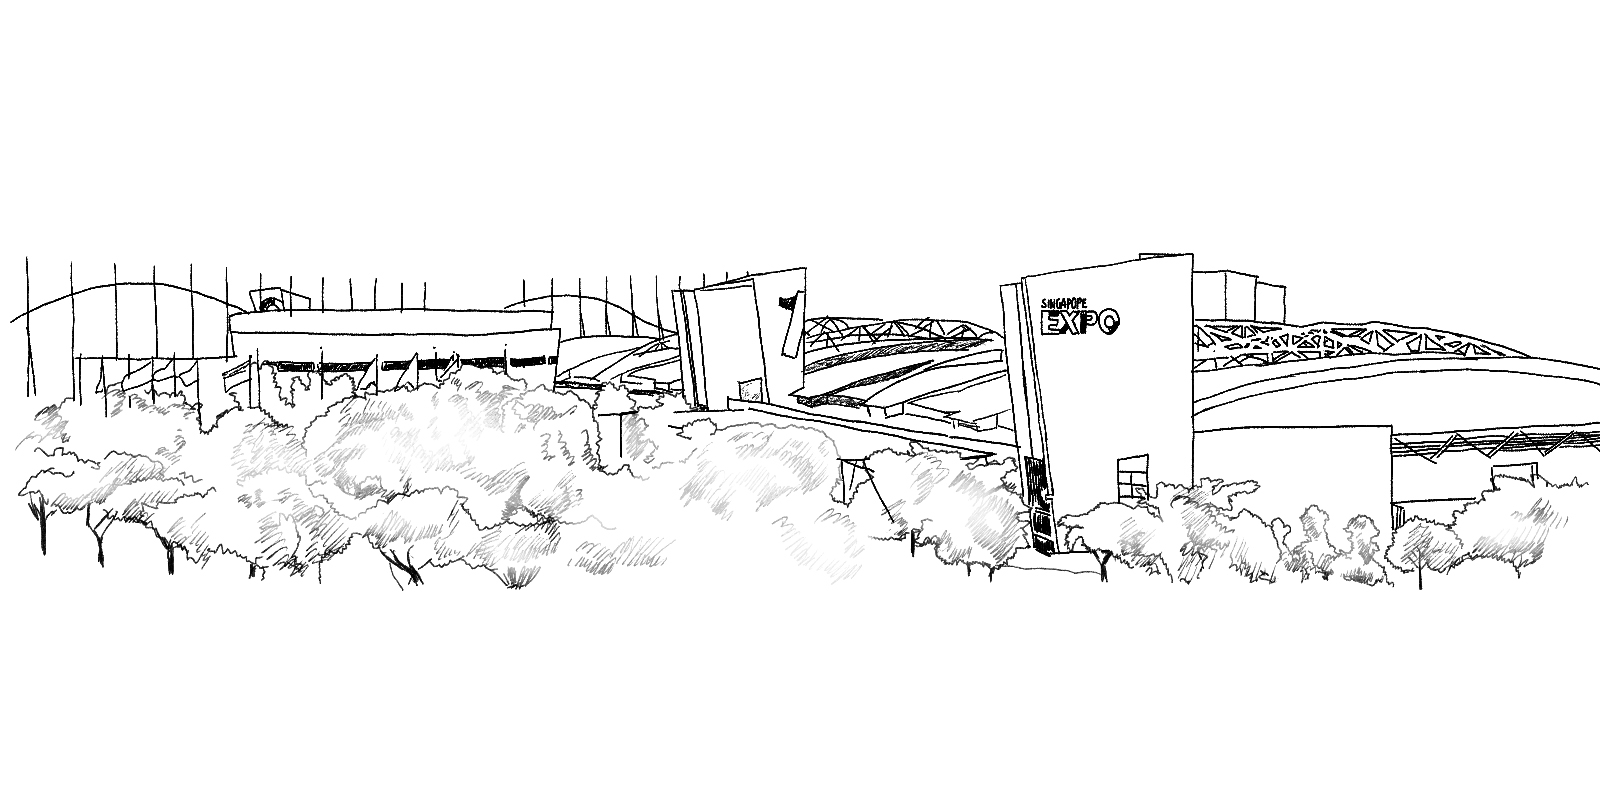
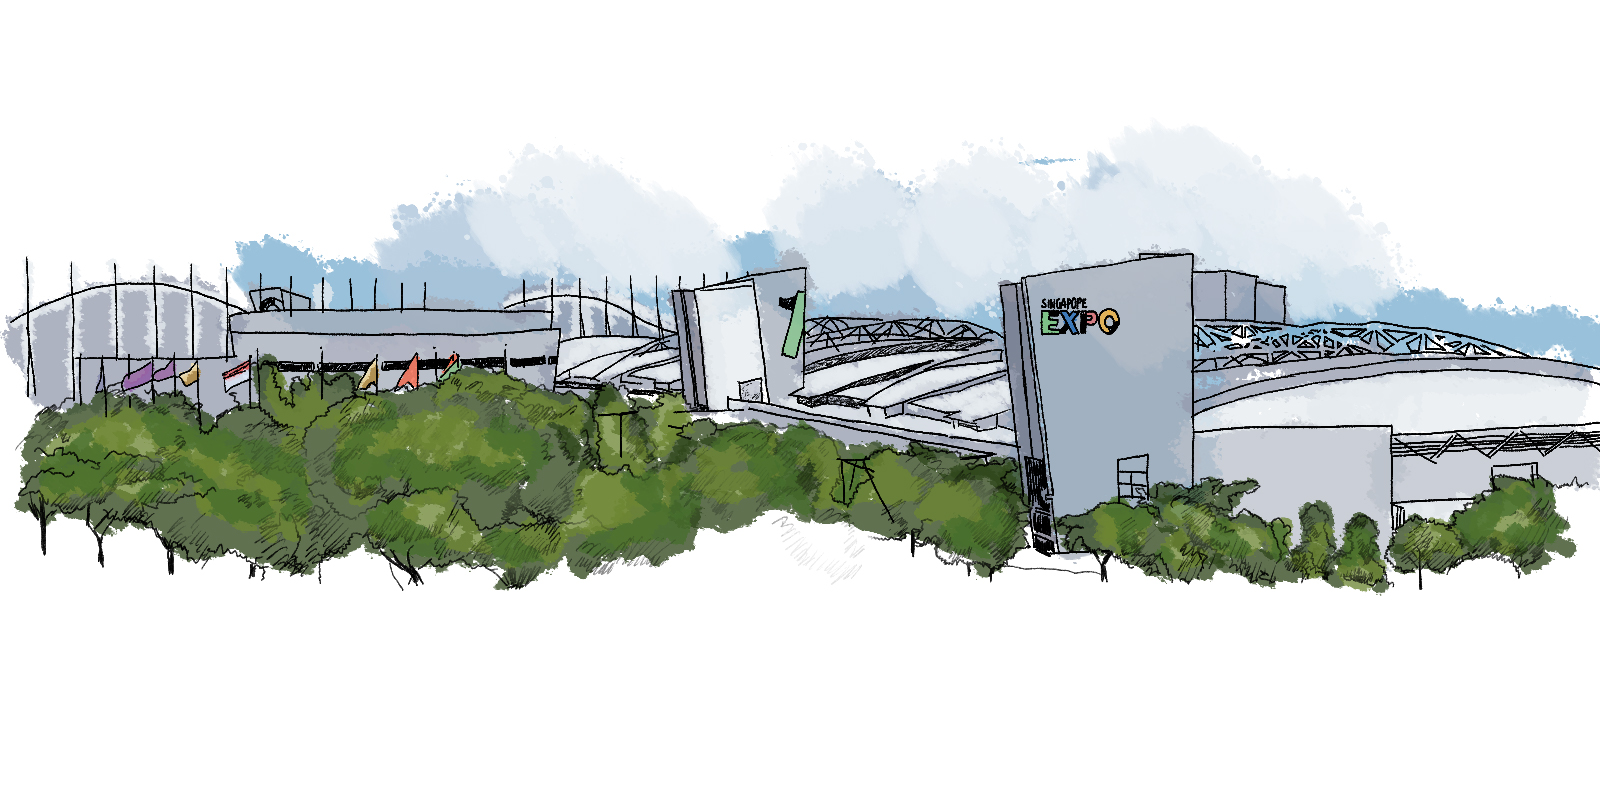
替换上色图

diff --git a/src/views/home/Home.vue b/src/views/home/Home.vue
@@ -1417,9 +1417,9 @@ export default {
         background-color: white;
         //filter: blur(12px);
 
-        background-position: center;
+        background-position: bottom;
         background-repeat: no-repeat;
-        background-size: 100% 100%;
+        background-size: 100% auto;
       }
       .image-2-blur {
         position: relative;
@@ -1433,9 +1433,9 @@ export default {
         background-color: white;
         //filter: blur(12px);
 
-        background-position: center;
+        background-position: bottom;
         background-repeat: no-repeat;
-        background-size: 100% 100%;
+        background-size: 100% auto;
       }
       .image-3-blur {
         position: relative;
@@ -1445,13 +1445,13 @@ export default {
         width: 100%;
 
         height: 65.7rem;
-        background-image: url("../../assets/imgs/home/blur-construction.png");
+        background-image: url("../../assets/imgs/home/blur-construction.jpg");
         background-color: white;
         //filter: blur(12px);
 
-        background-position: center;
+        background-position: bottom;
         background-repeat: no-repeat;
-        background-size: 100% 100%;
+        background-size: 100% auto;
       }
 
       .image-1 {
@@ -1461,9 +1461,9 @@ export default {
         background-image: url("../../assets/imgs/home/scott-graham-5fNmWej4tAA-unspl@2x.png");
         background-color: white;
 
-        background-position: center;
+        background-position: bottom;
         background-repeat: no-repeat;
-        background-size: 100% 100%;
+        background-size: 100% auto;
       }
 
       .image-2 {
@@ -1473,21 +1473,21 @@ export default {
         background-image: url("../../assets/imgs/home/realestate.png");
         background-color: white;
 
-        background-position: center;
+        background-position: bottom;
         background-repeat: no-repeat;
-        background-size: 100% 100%;
+        background-size: 100% auto;
       }
 
       .image-3 {
         width: 100%;
 
         height: 65.7rem;
-        background-image: url("../../assets/imgs/home/construction.png");
+        background-image: url("../../assets/imgs/home/construction.jpg");
         background-color: white;
 
-        background-position: center;
+        background-position: bottom;
         background-repeat: no-repeat;
-        background-size: 100% 100%;
+        background-size: 100% auto;
       }
 
       font-size: 2rem;
@@ -1604,13 +1604,13 @@ export default {
   }
 
   .background-3 {
-    padding: 20.1rem 0 0 0;
+    padding: 14.9rem 0 0 0;
     background-image: url("../../assets/imgs/home/标尺.png");
 
     background-position: 0% 100%;
     background-repeat: repeat-x;
     background-size: 100%;
-    height: 80rem;
+    height: 75rem;
     .block3 {
       .ID {
         margin-left: 14rem;
@@ -1726,7 +1726,7 @@ export default {
           }
         }
         .box-2 {
-          background-image: url("../../assets/imgs/home/woodlands_checkpoint-otc-6.png");
+          background-image: url("../../assets/imgs/home/wooland checkpoint.jpg");
           background-color: transparent;
           background-position: 20% 40%;
           background-repeat: no-repeat;
@@ -1739,7 +1739,7 @@ export default {
           width: 66.14583vw;
         }
         .box-3 {
-          background-image: url("../../assets/imgs/home/组屋-sep.jpg");
+          background-image: url("../../assets/imgs/home/组屋.jpg");
 
           background-position: 20% 40%;
           background-repeat: no-repeat;
@@ -1753,11 +1753,12 @@ export default {
           width: 66.14583vw;
         }
         .box-4 {
-          background-image: url("../../assets/imgs/home/圣淘沙+（局部）.jpg");
+          background-image: url("../../assets/imgs/home/sentosa zong+jubu.png");
 
           background-position: 20% 80%;
           background-repeat: no-repeat;
-          background-size: 80%;
+          background-size: 70%;
+          border: 0;
 
           position: absolute;
           bottom: 0;
@@ -1767,7 +1768,7 @@ export default {
         }
 
         .box-5 {
-          background-image: url("../../assets/imgs/home/Artboard 1.jpg");
+          background-image: url("../../assets/imgs/home/sentorini + canopy.jpg");
 
           background-position: 30% 80%;
           background-repeat: no-repeat;
@@ -2031,7 +2032,7 @@ export default {
   }
 
   .block5 {
-    padding: 21.3rem 0 0 14rem;
+    padding: 14.9rem 0 0 14rem;
     display: flex;
     flex-direction: column;
     height: 70rem;
